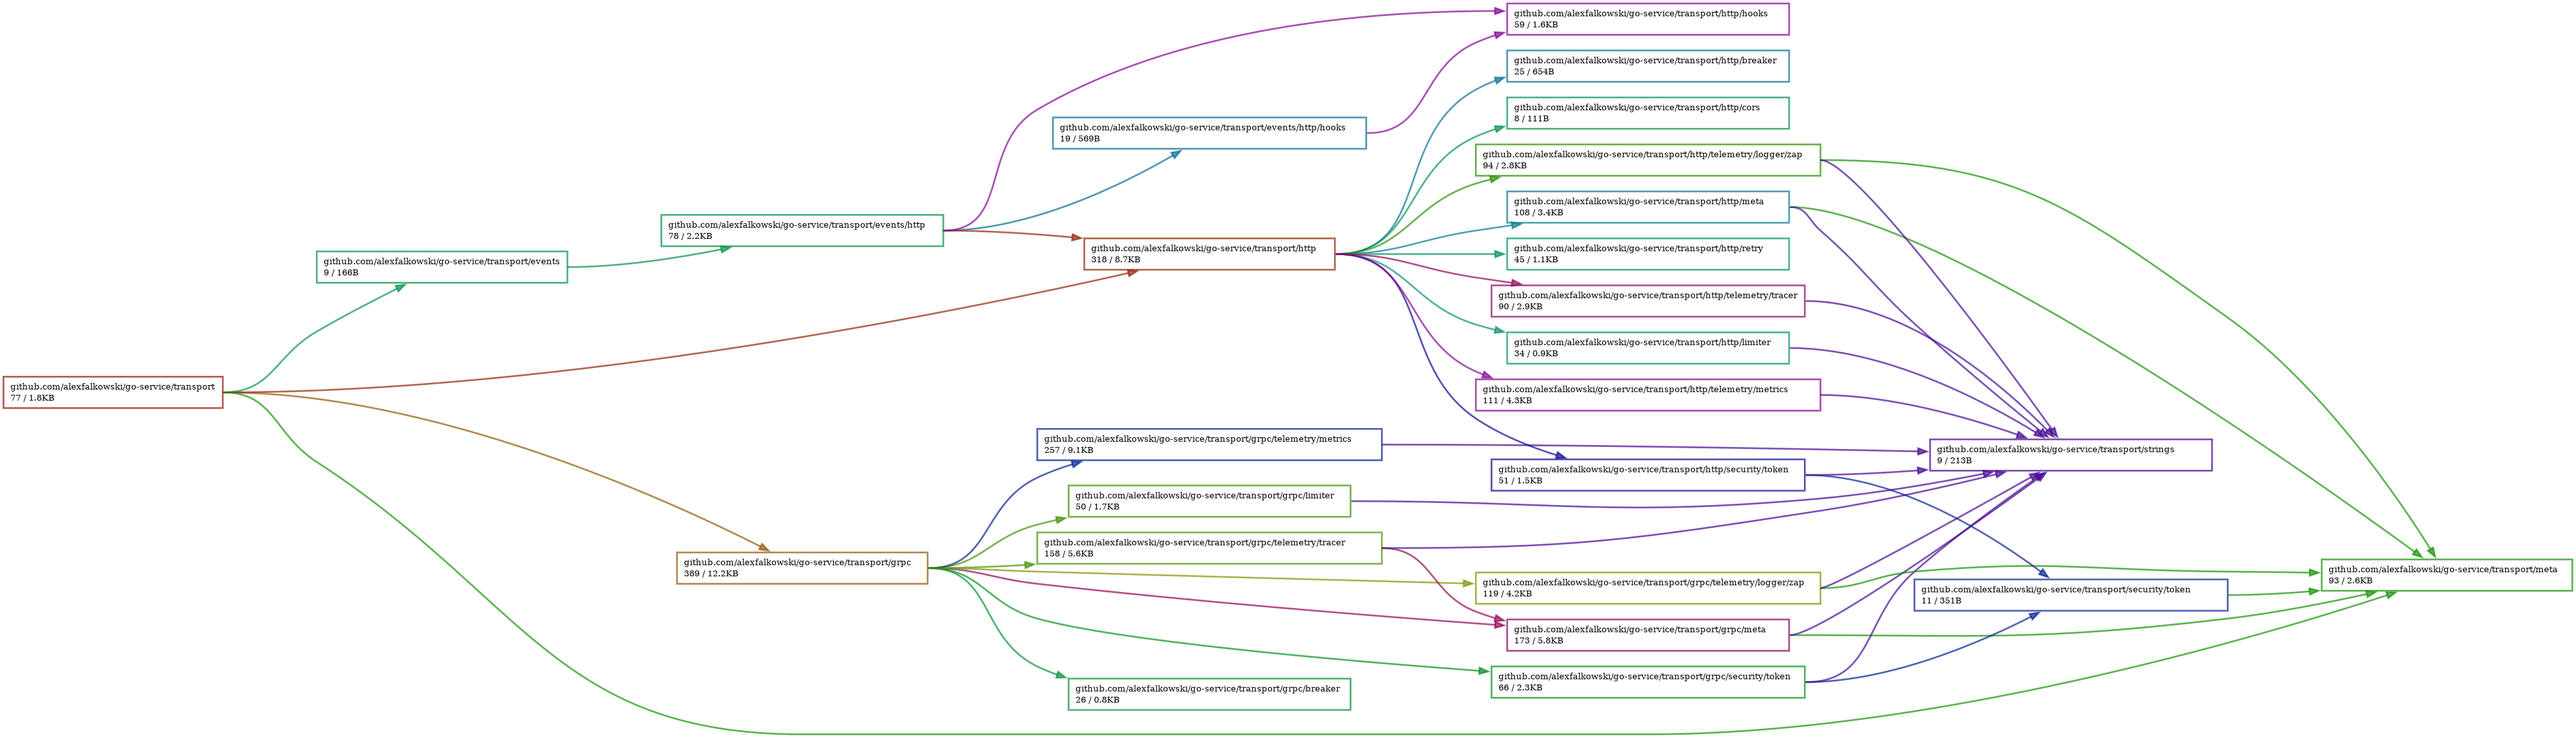
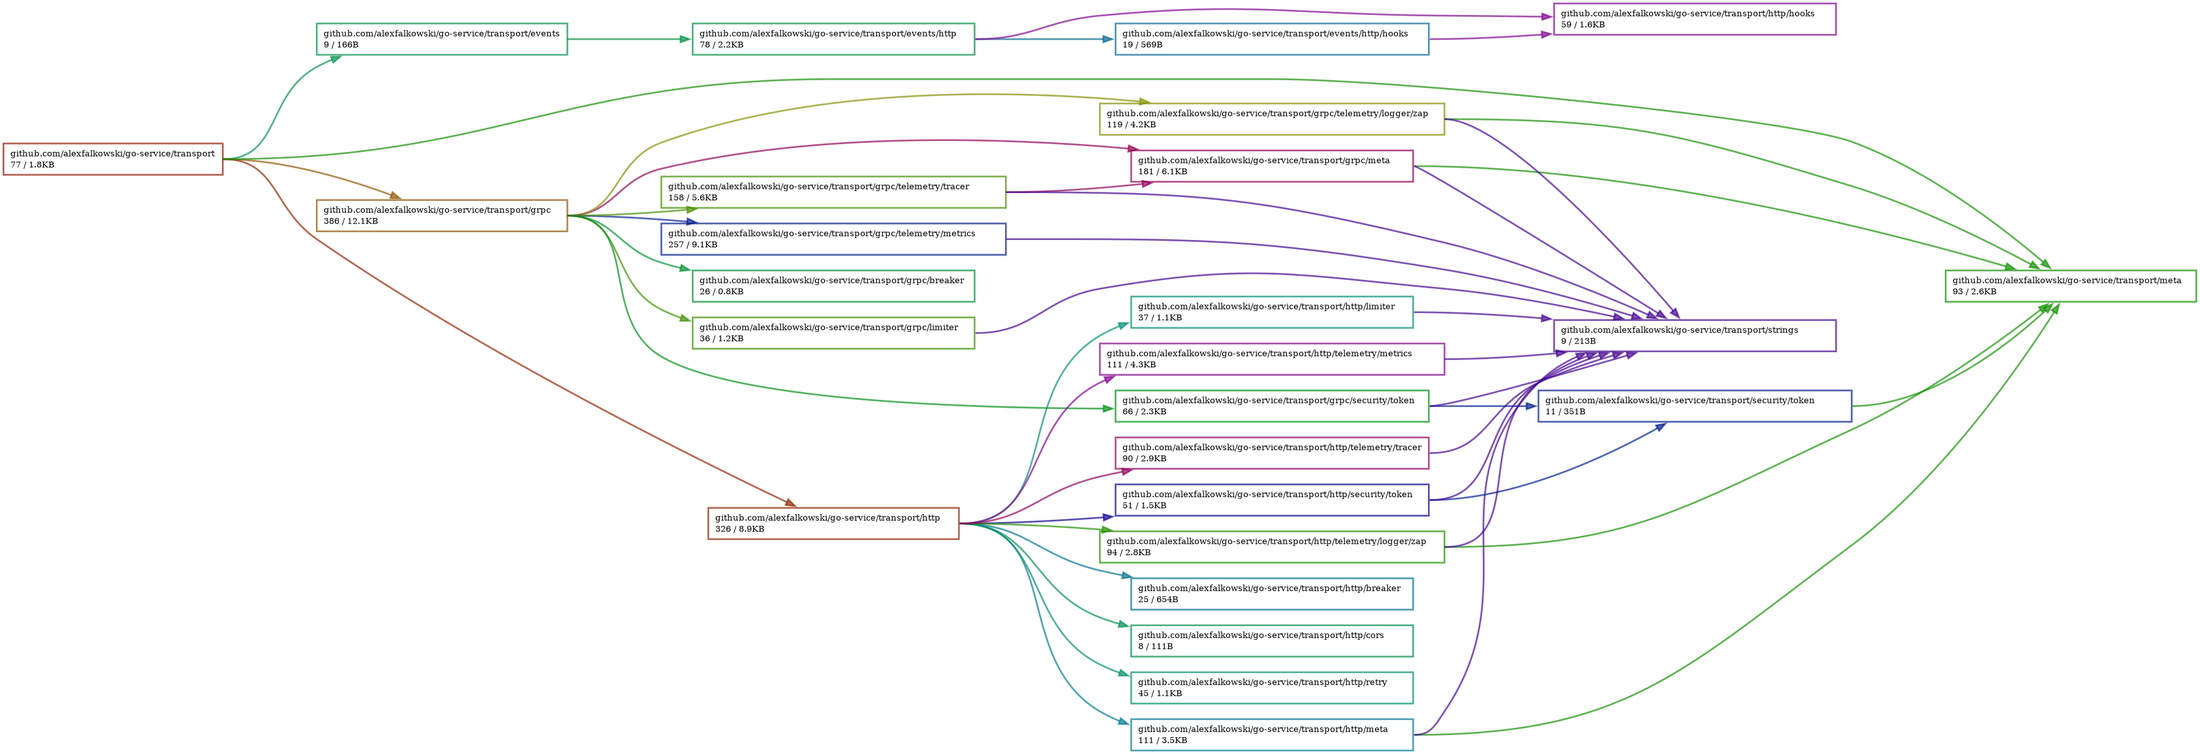
feat(http): add mvc (#873)

diff --git a/test/views/hello.tmpl.html b/test/views/hello.tmpl.html
@@ -1,0 +1,10 @@
+<h1>{{.Title}}</h1>
+<ul>
+    {{range .Todos}}
+        {{if .Done}}
+            <li class="done">{{.Title}}</li>
+        {{else}}
+            <li>{{.Title}}</li>
+        {{end}}
+    {{end}}
+</ul>

diff --git a/test/views/error.tmpl.html b/test/views/error.tmpl.html
@@ -1,0 +1,1 @@
+<h1>{{.Error}}</h1>

diff --git a/transport/http/mvc_test.go b/transport/http/mvc_test.go
@@ -1,0 +1,119 @@
+package http_test
+
+import (
+	"context"
+	"fmt"
+	"io"
+	"net/http"
+	"strings"
+	"testing"
+
+	"github.com/alexfalkowski/go-service/net/http/mvc"
+	"github.com/alexfalkowski/go-service/net/http/status"
+	"github.com/alexfalkowski/go-service/test"
+	. "github.com/smartystreets/goconvey/convey" //nolint:revive
+	"go.uber.org/fx/fxtest"
+	"golang.org/x/net/html"
+)
+
+func TestRouteSuccess(t *testing.T) {
+	Convey("Given I have a all the servers", t, func() {
+		mux := http.NewServeMux()
+		lc := fxtest.NewLifecycle(t)
+		logger := test.NewLogger(lc)
+		cfg := test.NewInsecureTransportConfig()
+		tc := test.NewOTLPTracerConfig()
+		m := test.NewOTLPMeter(lc)
+
+		s := &test.Server{Lifecycle: lc, Logger: logger, Tracer: tc, Transport: cfg, Meter: m, Mux: mux}
+		s.Register()
+
+		lc.RequireStart()
+
+		ctx := context.Background()
+		cl := &test.Client{Lifecycle: lc, Logger: logger, Tracer: tc, Transport: cfg, Meter: m}
+
+		mvc.Register(mux)
+
+		t := mvc.NewView(mvc.ParseTemplate(test.Views, "views/hello.tmpl.html"), mvc.ParseTemplate(test.Views, "views/error.tmpl.html"))
+		mvc.Route("GET /hello", t, func(_ context.Context, _ *http.Request, _ http.ResponseWriter) (*test.PageData, error) {
+			return &test.Model, nil
+		})
+
+		Convey("When I query for hello", func() {
+			client := cl.NewHTTP()
+
+			req, err := http.NewRequestWithContext(ctx, "GET", fmt.Sprintf("http://localhost:%s/hello", cfg.HTTP.Port), http.NoBody)
+			So(err, ShouldBeNil)
+
+			req.Header.Set("Content-Type", "text/html")
+
+			resp, err := client.Do(req)
+			So(err, ShouldBeNil)
+
+			defer resp.Body.Close()
+
+			body, err := io.ReadAll(resp.Body)
+			So(err, ShouldBeNil)
+
+			Convey("Then I should have valid html", func() {
+				_, err := html.Parse(strings.NewReader(string(body)))
+				So(err, ShouldBeNil)
+			})
+
+			lc.RequireStop()
+		})
+	})
+}
+
+func TestRouteError(t *testing.T) {
+	Convey("Given I have a all the servers", t, func() {
+		mux := http.NewServeMux()
+		lc := fxtest.NewLifecycle(t)
+		logger := test.NewLogger(lc)
+		cfg := test.NewInsecureTransportConfig()
+		tc := test.NewOTLPTracerConfig()
+		m := test.NewOTLPMeter(lc)
+
+		s := &test.Server{Lifecycle: lc, Logger: logger, Tracer: tc, Transport: cfg, Meter: m, Mux: mux}
+		s.Register()
+
+		lc.RequireStart()
+
+		ctx := context.Background()
+		cl := &test.Client{Lifecycle: lc, Logger: logger, Tracer: tc, Transport: cfg, Meter: m}
+
+		mvc.Register(mux)
+
+		t := mvc.NewView(mvc.ParseTemplate(test.Views, "views/hello.tmpl.html"), mvc.ParseTemplate(test.Views, "views/error.tmpl.html"))
+		mvc.Route("GET /hello", t, func(_ context.Context, _ *http.Request, _ http.ResponseWriter) (*test.PageData, error) {
+			return nil, status.Error(http.StatusServiceUnavailable, "ohh no")
+		})
+
+		Convey("When I query for hello", func() {
+			client := cl.NewHTTP()
+
+			req, err := http.NewRequestWithContext(ctx, "GET", fmt.Sprintf("http://localhost:%s/hello", cfg.HTTP.Port), http.NoBody)
+			So(err, ShouldBeNil)
+
+			req.Header.Set("Content-Type", "text/html")
+
+			resp, err := client.Do(req)
+			So(err, ShouldBeNil)
+
+			defer resp.Body.Close()
+
+			body, err := io.ReadAll(resp.Body)
+			So(err, ShouldBeNil)
+
+			Convey("Then I should have an error", func() {
+				So(resp.StatusCode, ShouldEqual, 503)
+
+				_, err := html.Parse(strings.NewReader(string(body)))
+				So(err, ShouldBeNil)
+			})
+
+			lc.RequireStop()
+		})
+	})
+}

diff --git a/transport/http/auth_test.go b/transport/http/auth_test.go
@@ -41,9 +41,6 @@ func TestValidAuthUnary(t *testing.T) {
 			Generator: test.NewGenerator("test", nil),
 		}
 
-		conn := cl.NewGRPC()
-		defer conn.Close()
-
 		rpc.Register(mux, test.Marshaller)
 		rpc.Unary("/hello", test.SuccessSayHello)
 
@@ -99,9 +96,6 @@ func TestInvalidAuthUnary(t *testing.T) {
 			Generator: test.NewGenerator("bob", nil),
 		}
 
-		conn := cl.NewGRPC()
-		defer conn.Close()
-
 		rpc.Register(mux, test.Marshaller)
 		rpc.Unary("/hello", test.SuccessSayHello)
 
@@ -154,9 +148,6 @@ func TestMissingAuthUnary(t *testing.T) {
 
 		ctx := context.Background()
 		cl := &test.Client{Lifecycle: lc, Logger: logger, Tracer: tc, Transport: cfg, Meter: m}
-
-		conn := cl.NewGRPC()
-		defer conn.Close()
 
 		rpc.Register(mux, test.Marshaller)
 		rpc.Unary("/hello", test.SuccessSayHello)
@@ -212,9 +203,6 @@ func TestEmptyAuthUnary(t *testing.T) {
 			RoundTripper: ht.NewRoundTripper(test.NewGenerator("", nil), http.DefaultTransport),
 		}
 
-		conn := cl.NewGRPC()
-		defer conn.Close()
-
 		rpc.Register(mux, test.Marshaller)
 		rpc.Unary("/hello", test.SuccessSayHello)
 
@@ -261,9 +249,6 @@ func TestMissingClientAuthUnary(t *testing.T) {
 
 		ctx := context.Background()
 		cl := &test.Client{Lifecycle: lc, Logger: logger, Tracer: tc, Transport: cfg, Meter: m}
-
-		conn := cl.NewGRPC()
-		defer conn.Close()
 
 		rpc.Register(mux, test.Marshaller)
 		rpc.Unary("/hello", test.SuccessSayHello)
@@ -318,9 +303,6 @@ func TestTokenErrorAuthUnary(t *testing.T) {
 			Lifecycle: lc, Logger: logger, Tracer: tc, Transport: cfg, Meter: m,
 			Generator: test.NewGenerator("", errors.New("token error")),
 		}
-
-		conn := cl.NewGRPC()
-		defer conn.Close()
 
 		rpc.Register(mux, test.Marshaller)
 		rpc.Unary("/hello", test.SuccessSayHello)

diff --git a/net/http/mvc/view.go b/net/http/mvc/view.go
@@ -1,0 +1,46 @@
+package mvc
+
+import (
+	"html/template"
+	"io"
+	"io/fs"
+
+	"github.com/alexfalkowski/go-service/runtime"
+)
+
+// ParseTemplate for mvc.
+func ParseTemplate(fs fs.FS, pattern string) *template.Template {
+	t, err := template.ParseFS(fs, pattern)
+	runtime.Must(err)
+
+	return t
+}
+
+// NewView for routes in mvc.
+func NewView(success, failure *template.Template) *View {
+	return &View{success: success, failure: failure}
+}
+
+// View used for routes.
+type View struct {
+	success *template.Template
+	failure *template.Template
+}
+
+// ExecuteSuccess for template.
+func (t *View) ExecuteSuccess(wr io.Writer, data any) error {
+	return execute(t.success, wr, data)
+}
+
+// ExecuteFailure for template.
+func (t *View) ExecuteFailure(wr io.Writer, data any) error {
+	return execute(t.failure, wr, data)
+}
+
+func execute(template *template.Template, wr io.Writer, data any) error {
+	if template == nil {
+		return nil
+	}
+
+	return template.Execute(wr, data)
+}

diff --git a/transport/http/rpc_test.go b/transport/http/rpc_test.go
@@ -11,6 +11,7 @@ import (
 
 	"github.com/alexfalkowski/go-service/limiter"
 	"github.com/alexfalkowski/go-service/net/http/rpc"
+	"github.com/alexfalkowski/go-service/net/http/status"
 	"github.com/alexfalkowski/go-service/test"
 	v1 "github.com/alexfalkowski/go-service/test/greet/v1"
 	tm "github.com/alexfalkowski/go-service/transport/meta"
@@ -275,8 +276,8 @@ func TestDisallowedRPC(t *testing.T) {
 				_, err := client.Call(context.Background(), &test.Request{Name: "Bob"})
 
 				Convey("Then I should have an error", func() {
-					So(rpc.IsError(err), ShouldBeTrue)
-					So(rpc.Code(err), ShouldEqual, http.StatusUnauthorized)
+					So(status.IsError(err), ShouldBeTrue)
+					So(status.Code(err), ShouldEqual, http.StatusUnauthorized)
 					So(err.Error(), ShouldContainSubstring, "verify token: invalid token")
 				})
 

diff --git a/net/http/mvc/route.go b/net/http/mvc/route.go
@@ -1,0 +1,36 @@
+package mvc
+
+import (
+	"context"
+	"net/http"
+
+	"github.com/alexfalkowski/go-service/net/http/status"
+)
+
+// Controller for mvc.
+type Controller[Model any] func(ctx context.Context, req *http.Request, res http.ResponseWriter) (*Model, error)
+
+// Route the template with the path.
+func Route[Res any](path string, view *View, controller Controller[Res]) {
+	h := func(res http.ResponseWriter, req *http.Request) {
+		ctx := req.Context()
+
+		r, err := controller(ctx, req, res)
+		if err != nil {
+			res.WriteHeader(status.Code(err))
+			view.ExecuteFailure(res, err)
+
+			return
+		}
+
+		err = view.ExecuteSuccess(res, r)
+		if err != nil {
+			res.WriteHeader(status.Code(err))
+			view.ExecuteFailure(res, err)
+
+			return
+		}
+	}
+
+	mux.HandleFunc(path, h)
+}

diff --git a/net/http/rpc/client.go b/net/http/rpc/client.go
@@ -10,6 +10,7 @@ import (
 	"github.com/alexfalkowski/go-service/encoding"
 	"github.com/alexfalkowski/go-service/errors"
 	"github.com/alexfalkowski/go-service/net/http/content"
+	"github.com/alexfalkowski/go-service/net/http/status"
 	"github.com/alexfalkowski/go-service/runtime"
 )
 
@@ -61,7 +62,7 @@ func (c *Client[Req, Res]) Call(ctx context.Context, req *Req) (res *Res, err er
 	// The server handlers return text on errors.
 	ct := content.NewFromMedia(response.Header.Get(content.TypeKey))
 	if ct.IsText() {
-		return nil, errors.Prefix("rpc error", Error(response.StatusCode, strings.TrimSpace(string(body))))
+		return nil, errors.Prefix("rpc error", status.Error(response.StatusCode, strings.TrimSpace(string(body))))
 	}
 
 	var rp Res

diff --git a/test/rpc.go b/test/rpc.go
@@ -6,6 +6,7 @@ import (
 
 	"github.com/alexfalkowski/go-service/meta"
 	"github.com/alexfalkowski/go-service/net/http/rpc"
+	"github.com/alexfalkowski/go-service/net/http/status"
 	v1 "github.com/alexfalkowski/go-service/test/greet/v1"
 )
 
@@ -36,5 +37,5 @@ func ProtobufSayHello(_ context.Context, r *v1.SayHelloRequest) (*v1.SayHelloRes
 }
 
 func ErrorSayHello(_ context.Context, _ *Request) (*Response, error) {
-	return nil, rpc.Error(http.StatusServiceUnavailable, "ohh no")
+	return nil, status.Error(http.StatusServiceUnavailable, "ohh no")
 }

diff --git a/test/mvc.go b/test/mvc.go
@@ -1,0 +1,33 @@
+package test
+
+import (
+	"embed"
+)
+
+type (
+	Todo struct {
+		Title string
+		Done  bool
+	}
+
+	PageData struct {
+		Title string
+		Todos []Todo
+	}
+)
+
+var (
+	//go:embed views/hello.tmpl.html
+	//go:embed views/error.tmpl.html
+	Views embed.FS
+
+	// Model for test.
+	Model = PageData{
+		Title: "My TODO list",
+		Todos: []Todo{
+			{Title: "Task 1", Done: false},
+			{Title: "Task 2", Done: true},
+			{Title: "Task 3", Done: true},
+		},
+	}
+)

diff --git a/transport/http/module.go b/transport/http/module.go
@@ -3,6 +3,7 @@ package http
 import (
 	"net/http"
 
+	"github.com/alexfalkowski/go-service/net/http/mvc"
 	"github.com/alexfalkowski/go-service/net/http/rpc"
 	"go.uber.org/fx"
 )
@@ -10,6 +11,7 @@ import (
 // Module for fx.
 var Module = fx.Options(
 	fx.Provide(http.NewServeMux),
+	fx.Invoke(mvc.Register),
 	fx.Invoke(rpc.Register),
 	fx.Provide(NewServer),
 	fx.Invoke(RegisterMetrics),

diff --git a/net/http/rpc/error.go b/net/http/rpc/error.go
@@ -3,9 +3,11 @@ package rpc
 import (
 	"context"
 	"net/http"
+
+	"github.com/alexfalkowski/go-service/net/http/status"
 )
 
 // WriteError for rpc.
 func WriteError(ctx context.Context, err error) {
-	http.Error(Response(ctx), err.Error(), Code(err))
+	http.Error(Response(ctx), err.Error(), status.Code(err))
 }
